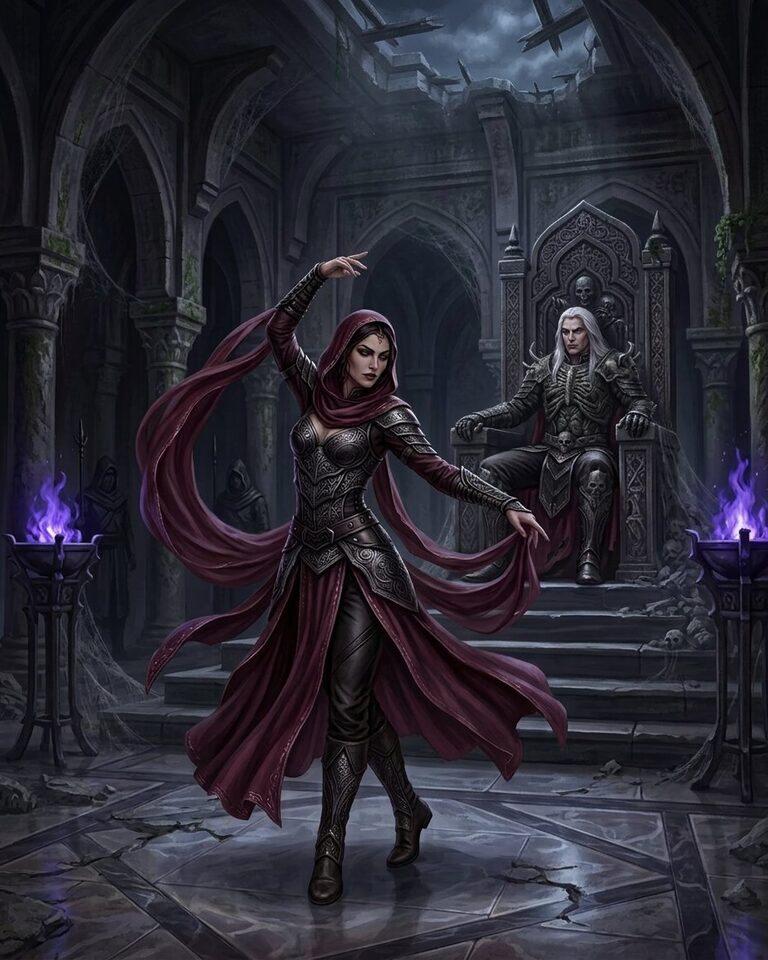
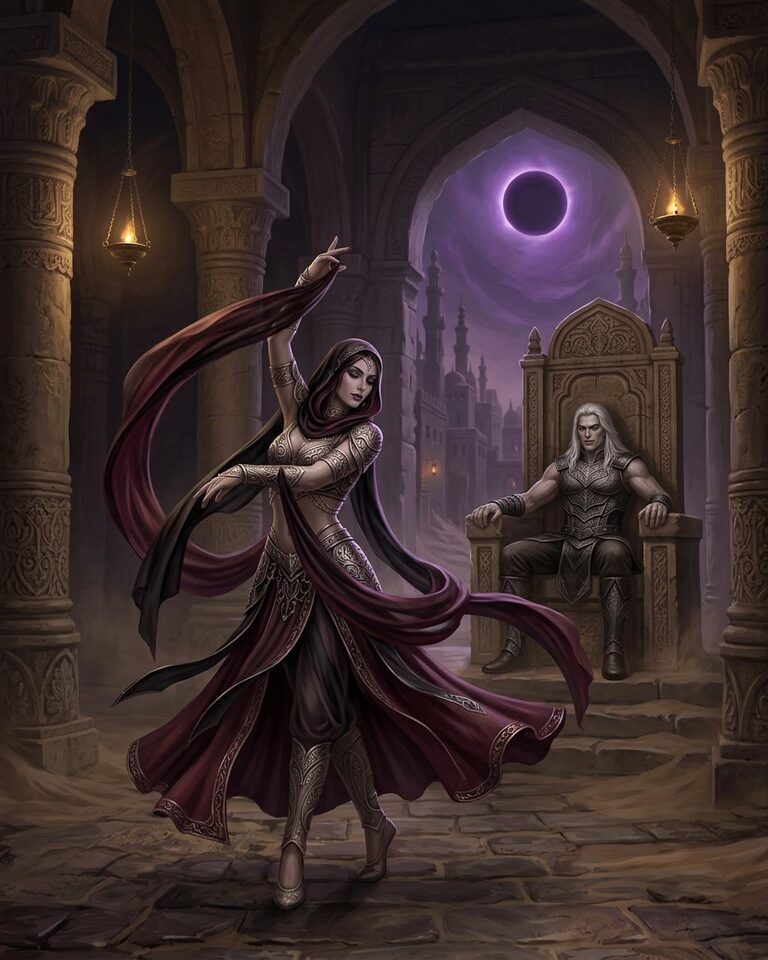
Recrée la danseuse devant le souverain

diff --git a/src/games/rpgCardArt.js b/src/games/rpgCardArt.js
@@ -60,7 +60,7 @@ const SET_NEIGE_SOULS_VERSION = 'neige-souls-cendres-v1';
 const SANS_TEINTE = 'sans-teinte-v1';
 
 const CARD_ART_CACHE_VERSIONS = {
-  'danseuse-des-ombres-de-dune': 'lune-danseuse-v4',
+  'danseuse-des-ombres-de-dune': 'lune-danseuse-v5',
   'souverain-de-la-lune-noire': 'lune-heros-v2',
   'voile-de-la-lune-noire': 'lune-magie-v4',
   'ressac-de-la-lune-noire': 'lune-magie-v4',
